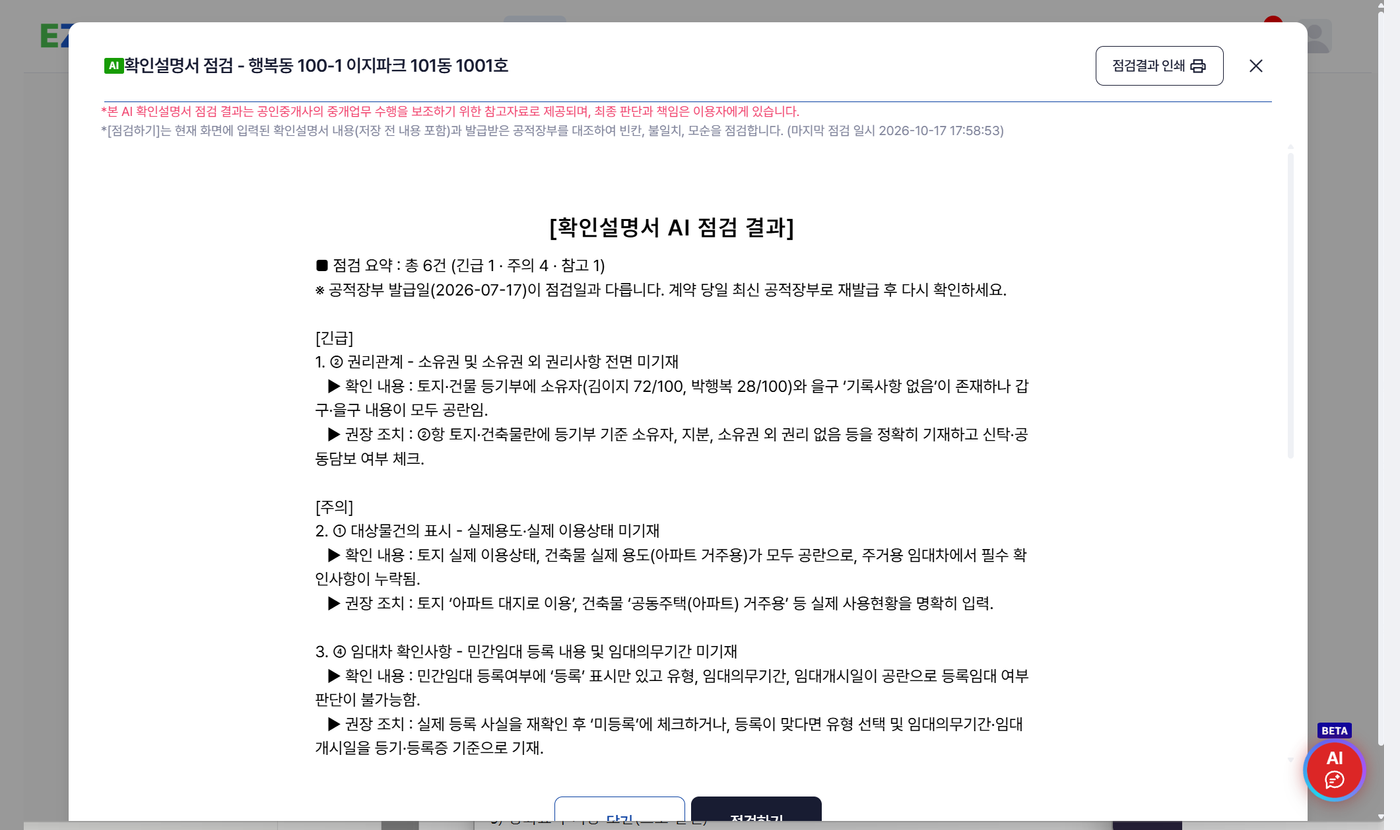
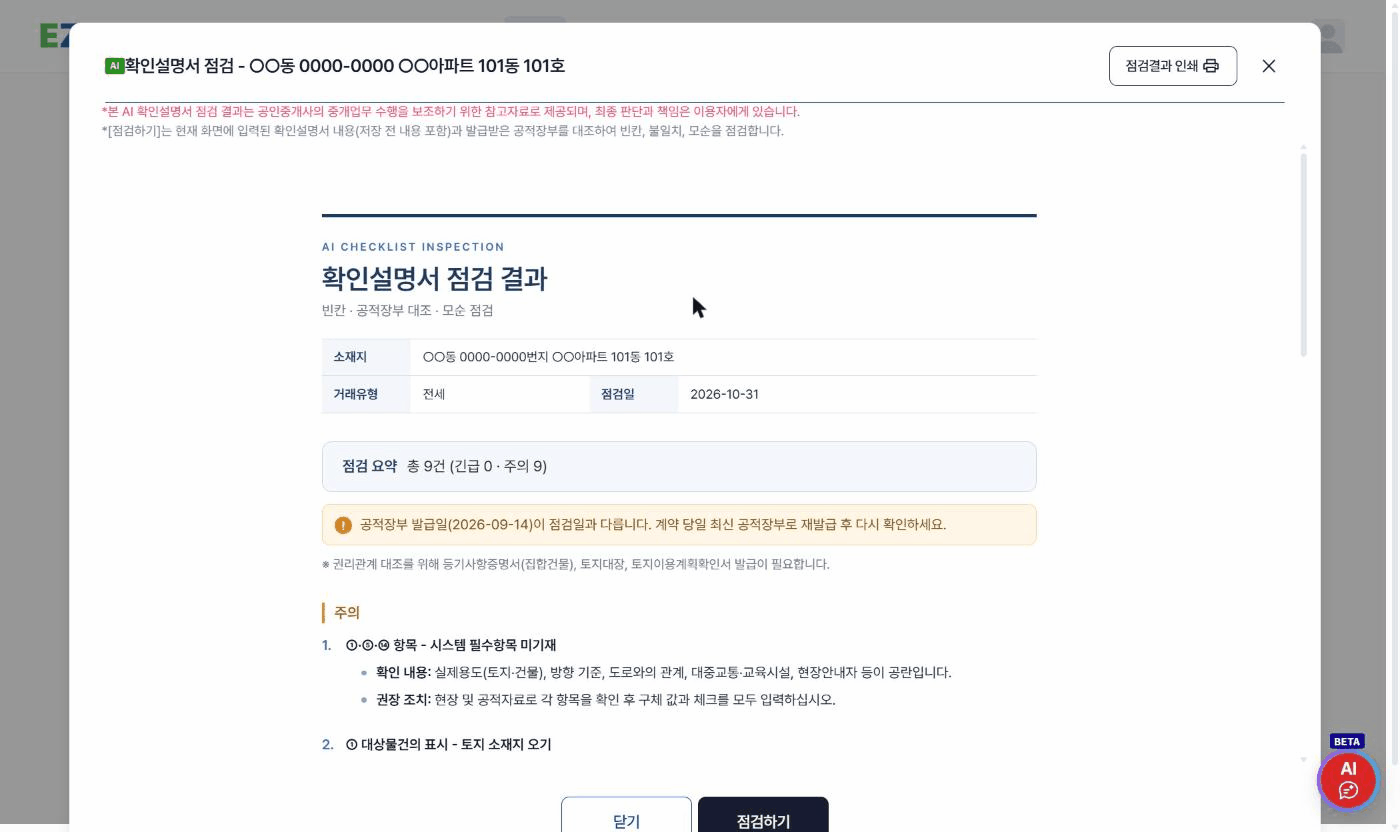
AI 점검 화면을 연습 계약으로 다시 찍어 넣었습니다
확인설명서·계약서 AI 점검이 보고서형으로 바뀐 뒤의 실제 화면으로
그림 네 장을 교체·추가했습니다. 옛 화면 그림 한 장은 지웠습니다.

- 진행 표시가 네 단계로 바뀌며 나오는 것, 공적장부가 많으면 5분 걸리는 것,
  창을 닫아도 점검이 계속되고 다시 열면 마지막 점검 일시와 함께 남아 있는 것을 적었습니다
- 요약 아래에 "대조에 쓰지 못한 공적장부"가 함께 나온다는 것을 적었습니다
- 재점검 횟수를 요금제에 맞게 고쳤습니다. 플러스 맛보기는 재점검도 월 1회에 들어갑니다
- 탭을 옮길 때 "작성중이던 내용은 사라집니다"가 뜨는 것을 막힘 항목으로 넣었습니다
- 만기 문서의 계약 업데이트 탭 그림을 채우고 거래정보 항목 이름을 실제 화면대로 고쳤습니다

diff --git a/docs/howto/contract-apartment.md b/docs/howto/contract-apartment.md
@@ -177,16 +177,20 @@
 
 ![계약 상세 위쪽 버튼 줄 — 오른쪽에서 두 번째가 AI점검입니다](/images/contract-apartment-08.png)
 
-<!-- 스크린샷 남음: AI 계약서 점검 창(점검하기 누르기 전) — 연습 계약으로 -->
-
 1. 그 계약의 **공적장부를 먼저 발급**받습니다. 계약 상세 위쪽의 **공적장부[계약]** 버튼이 빠릅니다
    → [공적장부 한 번에 떼기](/howto/public-records)
 2. 계약 상세 위쪽 버튼 줄에서 **AI 점검**을 누릅니다
    *(같은 줄에 가계약 관리 · AI 권리분석 · 안내문자 · 미리보기 및 인쇄 · 저장이 있습니다)*
 3. **AI 계약서 점검** 창이 열리면 **점검하기**를 누릅니다
 
+![AI 계약서 점검 창 — 점검하기를 누르면 여기에 결과가 써집니다](/images/contract-apartment-09.png)
+
 화면 설명 그대로입니다 — **저장 전 내용까지 포함해** 지금 화면에 입력된 계약서를
 발급받은 공적장부와 대조합니다.
+
+창 가운데에 **진행 상태와 경과 시간**이 바뀌며 나옵니다.
+화면 안내대로 **공적장부 자료가 많으면 5분 정도** 걸리니 기다려 주세요.
+**창을 닫아도 점검은 계속**되고, 다시 열면 마지막 결과가 그대로 있습니다.
 
 ### 무엇을 보나
 
@@ -213,14 +217,26 @@
 
 ### 결과는 이렇게 나옵니다
 
-맨 위에 **점검 요약**이 한 줄로 나옵니다 — *"총 12건 (긴급 4 · 주의 5 · 참고 3)"* 처럼.
+![계약서 점검 결과 — 요약 줄과 긴급 목록](/images/contract-apartment-10.png)
+
+보고서 모양으로 나옵니다. 맨 위에 **소재지 · 거래유형 · 점검일**이 표로 붙고,
+그 아래 **점검 요약**이 한 줄 — *"총 4건 (긴급 2 · 주의 1 · 참고 1)"* 처럼.
 그 아래로 **긴급 · 주의 · 참고** 순서로 지적사항이 번호를 달고 나오고,
 하나하나에 **확인 내용**(무엇이 어떻게 다른지)과 **권장 조치**(어떻게 고치면 되는지)가 붙습니다.
+
+요약 아래에는 **대조에 쓰지 못한 공적장부**도 적힙니다 —
+*"※ 대조에 필요한 공적장부 미제공: 등기사항증명서(집합건물), 토지대장 …"* 처럼.
+**여기 적힌 장부를 떼고 다시 점검해야** 그 부분까지 봐 줍니다.
 
 오른쪽 위 **점검결과 인쇄**를 누르면 **보고서로 출력**됩니다.
 소재지·거래유형·점검일이 머리에 붙어서 그대로 보관하거나 공유하기 좋습니다.
 
 고치신 뒤에는 화면 안내대로 **저장하고 [점검하기]를 다시** 눌러 주세요.
+
+::: tip 플러스 맛보기로 쓰실 때는
+**맛보기는 월 1회**라, 고친 뒤 다시 누르는 것도 그 1회에 들어갑니다.
+빈칸을 **한 번에 다 채워 넣고** 점검하시는 편이 낫습니다.
+:::
 
 ::: warning 공적장부 발급일이 오래됐다는 경고가 뜨면
 점검 결과 위에 *"공적장부 발급일이 점검일과 다릅니다. 계약 당일 최신 공적장부로 재발급 후

diff --git a/docs/howto/lease-expiry.md b/docs/howto/lease-expiry.md
@@ -103,18 +103,20 @@
 
 ## 4. 계약서를 쓴 물건은 계약 업데이트로
 
-<!-- 스크린샷 필요: 계약 상세 → 계약 업데이트 탭 → 1. 거래당사자 및 거래정보 업데이트 (연습 데이터로) -->
-
 부동산이지에서 전세·월세 계약서를 쓴 물건이라면 다시 입력할 필요가 없습니다.
 다만 **계약서를 저장했다고 원장의 점유 상태가 저절로 바뀌지는 않습니다.**
 계약서와 원장은 별개이고, 원장에 반영하는 단계가 따로 있습니다.
 
 1. `계약 → 계약 관리`에서 그 계약을 엽니다.
-2. **계약 업데이트** 탭을 누릅니다.
+2. **계약 업데이트** 탭을 누릅니다. 묶음마다 **업데이트 적용 대기** 표시가 붙어 있습니다.
 3. **1. 거래당사자 및 거래정보 업데이트**를 펼칩니다.
-   계약서에 쓴 **점유 상태 · 임대차 보증금 · 임대차 차임 · 임대차기간**이 채워져 있습니다. 틀린 곳이 있으면 여기서 고칩니다.
+   **임대인 · 임차인 · 거래정보**가 차례로 나옵니다.
+   거래정보에는 **점유 상태 · 기존 보증금 · 기존 임대기간 · 전대차**가 있고, 계약서에 쓴 값이 들어와 있습니다.
+   틀린 곳이 있으면 여기서 고칩니다 *(계약 유형에 따라 항목이 조금 다릅니다)*.
 4. 아래 **부동산 원장 업데이트**를 누릅니다.
    "부동산 원장 업데이트가 완료되었습니다"가 뜨고 제목 옆에 **업데이트 완료**가 붙습니다.
+
+![계약 업데이트 탭 — 거래정보와 부동산 원장 업데이트 버튼](/images/lease-expiry-06.png)
 
 이제 임대차기간 종료일이 만기가 되어 `만기일 관리`와 캘린더에 올라옵니다.
 
